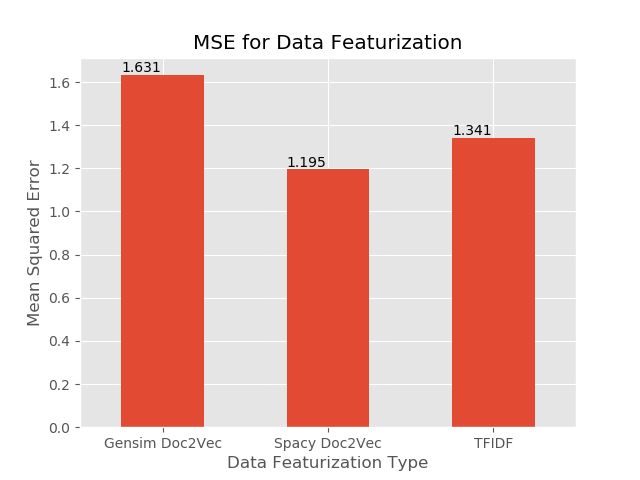
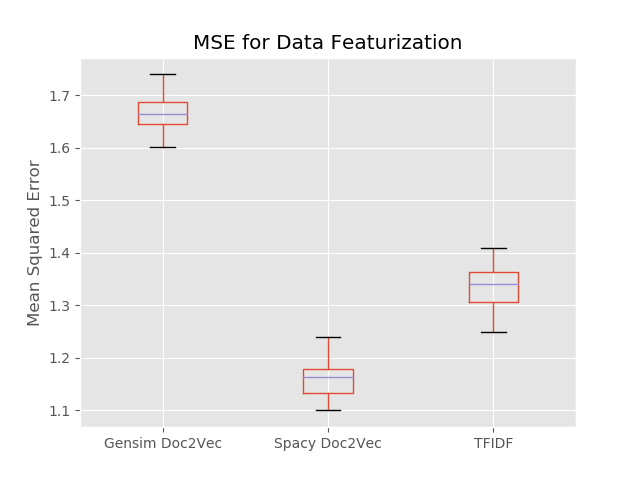
Final set of images

diff --git a/src/ModelCompare.py b/src/ModelCompare.py
@@ -130,9 +130,24 @@ def Document_Save_to_file(filename, corpus, word_vec):
           f.write('least simular: ' + least_simular)
           f.write('\n')
 
+def MultiModelEvaluation():
+      data = []
+      for i in range(20):
+        Xtrainc, Xtestc, ytrainc, ytestc = train_test_split(X_test_tfidf, y_test, test_size=.2)
+        Xtrainv, Xtestv, ytrainv, ytestv = train_test_split(X_vec_test[1], y_test, test_size=.2)
+        Xtraing, Xtestg, ytraing, ytestg = train_test_split(X_test_vec_gensim, y_test, test_size=.2)
+      
+        RandomForestMSE_tfidf = ModelEvaluation(RandomForestclf_tfidf, X_test=Xtestc, y_test= ytestc, build=False)
+        RandomForestMSE_vec_spacy = ModelEvaluation(RandomForestclf_vec_spacy, X_test=Xtestv, y_test= ytestv, build=False)
+        RandomForestMSE_vec_gensim = ModelEvaluation(RandomForestclf_vec_gensim, X_test=Xtestg, y_test= ytestg, build=False)
+
+        modelScores = {'Gensim Doc2Vec' : RandomForestMSE_vec_gensim, 'Spacy Doc2Vec' :RandomForestMSE_vec_spacy, 'TFIDF' : RandomForestMSE_tfidf}
+        data.append(modelScores)
+      return data
+
 if __name__ == "__main__":
-    y, corpus = Get_Corpus('data/Amz_book_review_short.parquet', plot=False)
-    word_vec = Get_Corpus('data/Amz_book_review_short_vector.parquet', get_y=False, is_WordVec=True)
+    y, corpus = Get_Corpus('data/Amz_book_review_medium.parquet', plot=False)
+    word_vec = Get_Corpus('data/Amz_book_review_medium_vector.parquet', get_y=False, is_WordVec=True)
     
     y_test, X_corpus_test = Get_Corpus('data/Amz_book_review_test.parquet', plot = False)
     X_vec_test = Get_Corpus('data/Amz_book_review_test_vector.parquet', plot = False, is_WordVec=True)
@@ -187,21 +202,9 @@ if __name__ == "__main__":
     print('Params for Random Forest Gensim Vec: ', RandomForestsBestParams_vec_gensim)
 
     # comparing the models
-    data = []
-    for i in range(20):
-      Xtrainc, Xtestc, ytrainc, ytestc = train_test_split(X_test_tfidf, y_test, test_size=.2)
-      Xtrainv, Xtestv, ytrainv, ytestv = train_test_split(X_vec_test[1], y_test, test_size=.2)
-      Xtraing, Xtestg, ytraing, ytestg = train_test_split(X_test_vec_gensim, y_test, test_size=.2)
-     
-      RandomForestMSE_tfidf = ModelEvaluation(RandomForestclf_tfidf, X_test=Xtestc, y_test= ytestc, build=False)
-      RandomForestMSE_vec_spacy = ModelEvaluation(RandomForestclf_vec_spacy, X_test=Xtestv, y_test= ytestv, build=False)
-      RandomForestMSE_vec_gensim = ModelEvaluation(RandomForestclf_vec_gensim, X_test=Xtestg, y_test= ytestg, build=False)
-
-      modelScores = {'Gensim Doc2Vec' : RandomForestMSE_vec_gensim, 'Spacy Doc2Vec' :RandomForestMSE_vec_spacy, 'TFIDF' : RandomForestMSE_tfidf}
-      data.append(modelScores)
-
+    data = MultiModelEvaluation()
     df_MSE = pd.DataFrame(data)
     modelTimeTrain = {'Data Featurization Type': ['Gensim Doc2Vec','Spacy Doc2Vec', 'TFIDF'], 'Time To Train Model' : [gensim_build_time, spacy_build_time, tfidf_build_time]}
 
-    bar_plot('Mean Squared Error', 'MSE for Data Featurization', 'images/Model_MSE.png', Box=True, df = df_MSE)
-    bar_plot('Time (Seconds)', 'Time to Train Model', 'images/Model_Time_Train.png', Dict = modelTimeTrain)
+    bar_plot('Mean Squared Error', 'MSE for Data Featurization', 'images/Model_MSE_medium.png', Box=True, df = df_MSE)
+    bar_plot('Time (Seconds)', 'Time to Train Model', 'images/Model_Time_medium_Train.png', Dict = modelTimeTrain)
